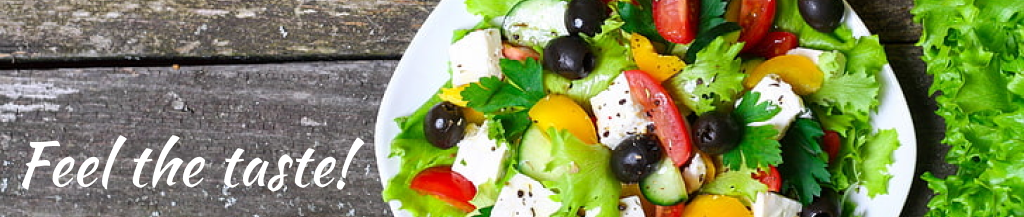
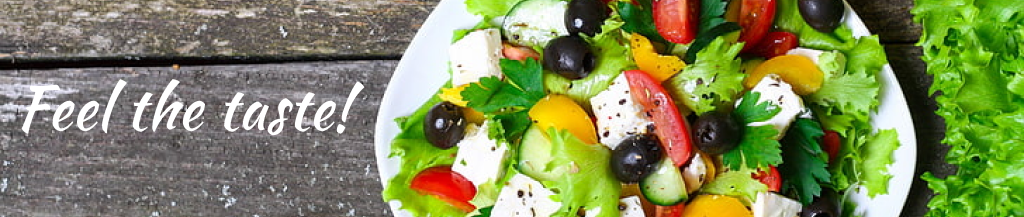
slideshow added

Changed region(s): [[0.0, 0.3594, 0.375, 0.8848], [0.3438, 0.3871, 0.375, 0.4424]]

diff --git a/lib/features/order_pickup/presentation/pages/pickup_page.dart b/lib/features/order_pickup/presentation/pages/pickup_page.dart
@@ -2,6 +2,7 @@ import 'package:Goodbytz/features/order_pickup/domain/entities/order_data.dart';
 import 'package:Goodbytz/features/order_pickup/presentation/bloc/order_pickup_bloc/order_pickup_bloc.dart';
 import 'package:Goodbytz/features/order_pickup/presentation/core/widgets/countdown.dart';
 import 'package:Goodbytz/features/order_pickup/presentation/core/widgets/logo_text.dart';
+import 'package:Goodbytz/features/order_pickup/presentation/core/widgets/slider_banner.dart';
 import 'package:Goodbytz/features/order_pickup/presentation/widgets/pickup_page_widgets/pickup_page_widgets.dart';
 import 'package:Goodbytz/injection_container.dart';
 import 'package:flutter/material.dart';
@@ -26,7 +27,7 @@ class PickupPage extends StatelessWidget {
                     Column(
                       children: [
                         //*** Top banner ***//
-                        Image.asset(fit: BoxFit.fill, 'images/top_banner.png'),
+                        const SliderBanner(),
                         SizedBox(
                           height: 15.h,
                         ),
@@ -76,9 +77,9 @@ class PickupPage extends StatelessWidget {
                           'Order ID:',
                           style: TextStyle(fontWeight: FontWeight.bold),
                         ),
-                        const Text(
-                          'benyamin_jafari_2000',
-                          style: TextStyle(fontWeight: FontWeight.bold),
+                        Text(
+                          orderData.orderID,
+                          style: const TextStyle(fontWeight: FontWeight.bold),
                         ),
                         const Spacer(),
 

diff --git a/lib/features/order_pickup/presentation/core/widgets/slider_banner.dart b/lib/features/order_pickup/presentation/core/widgets/slider_banner.dart
@@ -1,0 +1,33 @@
+import 'package:carousel_slider/carousel_slider.dart';
+import 'package:flutter/widgets.dart';
+import 'package:sizer/sizer.dart';
+
+// The slideshow banner on top
+class SliderBanner extends StatelessWidget {
+  const SliderBanner({super.key});
+
+  @override
+  Widget build(BuildContext context) {
+    return CarouselSlider(
+      items: [
+        Image.asset(fit: BoxFit.fill, 'images/top_banner.png'),
+        Image.asset(fit: BoxFit.fill, 'images/top_banner1.png'),
+        Image.asset(fit: BoxFit.fill, 'images/top_banner2.png'),
+      ],
+      options: CarouselOptions(
+        height: 18.h,
+        aspectRatio: 16 / 9,
+        viewportFraction: 1,
+        initialPage: 0,
+        scrollPhysics: const NeverScrollableScrollPhysics(),
+        reverse: false,
+        autoPlay: true,
+        autoPlayInterval: const Duration(seconds: 5),
+        autoPlayAnimationDuration: const Duration(seconds: 1),
+        autoPlayCurve: Curves.fastOutSlowIn,
+        enlargeCenterPage: true,
+        enlargeFactor: 0.3,
+      ),
+    );
+  }
+}

diff --git a/lib/features/order_pickup/presentation/widgets/order_input_page_widgets/order_main_body.dart b/lib/features/order_pickup/presentation/widgets/order_input_page_widgets/order_main_body.dart
@@ -1,4 +1,5 @@
 import 'package:Goodbytz/features/order_pickup/presentation/core/widgets/logo_text.dart';
+import 'package:Goodbytz/features/order_pickup/presentation/core/widgets/slider_banner.dart';
 import 'package:Goodbytz/features/order_pickup/presentation/widgets/order_input_page_widgets/order_input_controls.dart';
 import 'package:flutter/material.dart';
 import 'package:sizer/sizer.dart';
@@ -10,7 +11,7 @@ class OrderMainBody extends StatelessWidget {
   Widget build(BuildContext context) {
     return Column(
       children: [
-        Image.asset(fit: BoxFit.fill, 'images/top_banner.png'),
+        const SliderBanner(),
         SizedBox(
           height: 15.h,
         ),

diff --git a/lib/features/order_pickup/presentation/widgets/order_input_page_widgets/order_id_text_field.dart b/lib/features/order_pickup/presentation/widgets/order_input_page_widgets/order_id_text_field.dart
@@ -23,7 +23,8 @@ class _OrderIdTextFieldState extends State<OrderIdTextField> {
             filled: true,
             fillColor: const Color(0xFFFFFFFF),
             border: OutlineInputBorder(
-              borderSide: BorderSide(color: ThemeData().primaryColor, width: 1),
+              borderSide:
+                  BorderSide(color: Theme.of(context).primaryColor, width: 1),
               borderRadius: BorderRadius.circular(18),
             ),
             hintText: 'Order ID',
